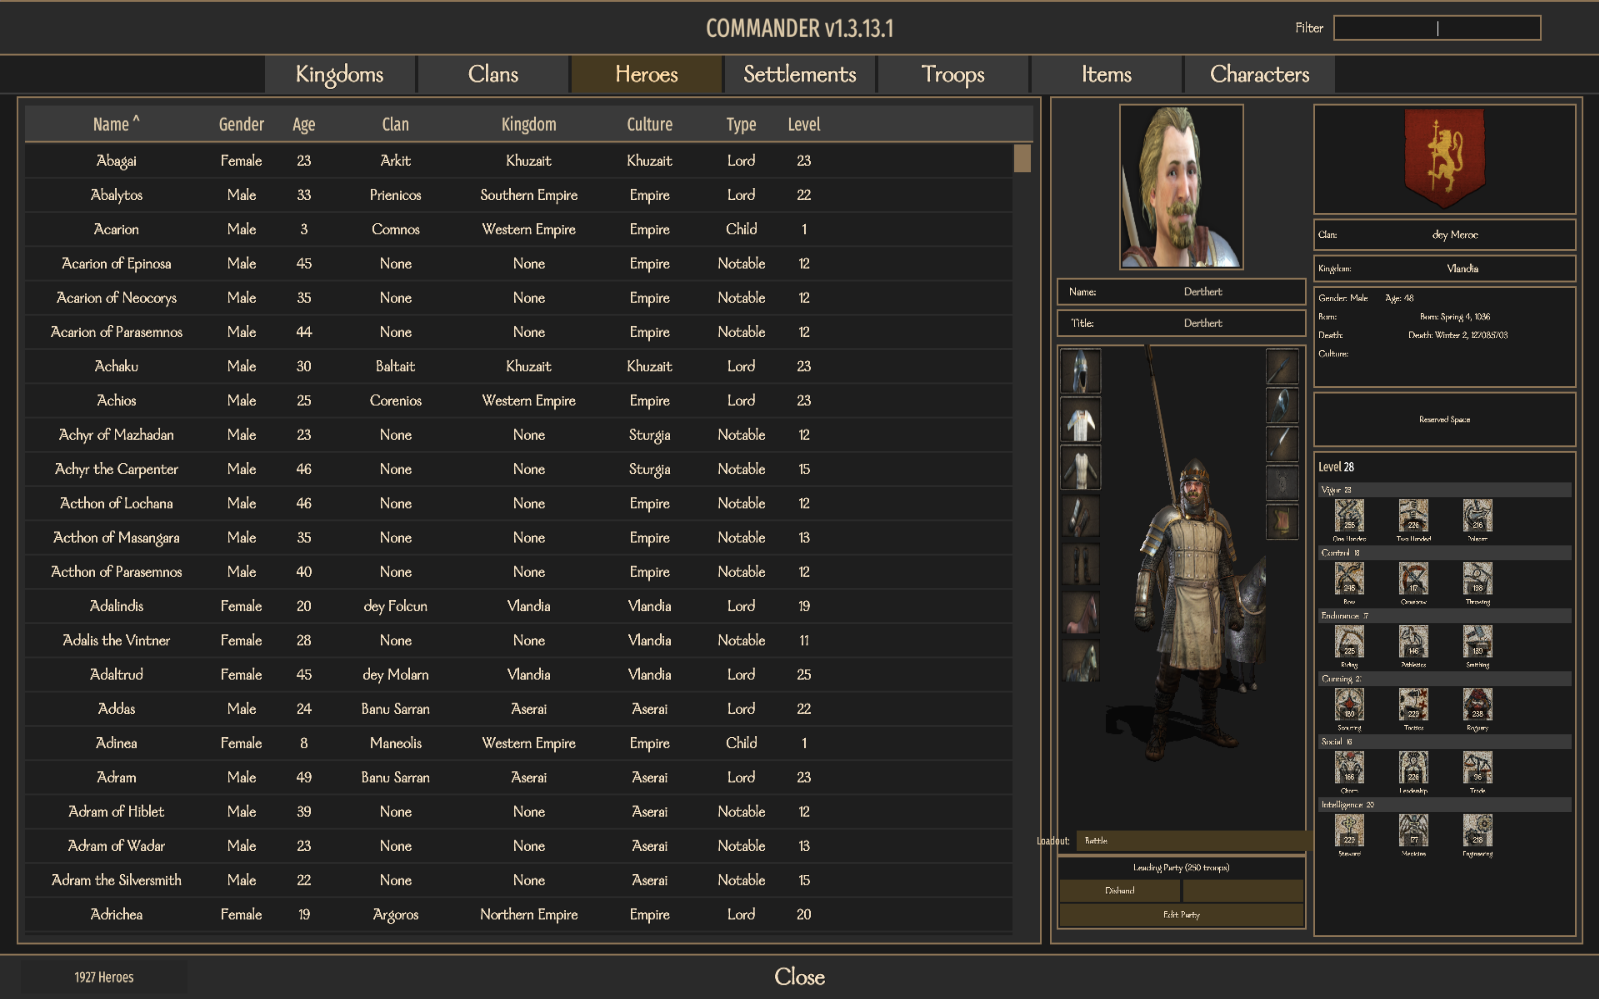
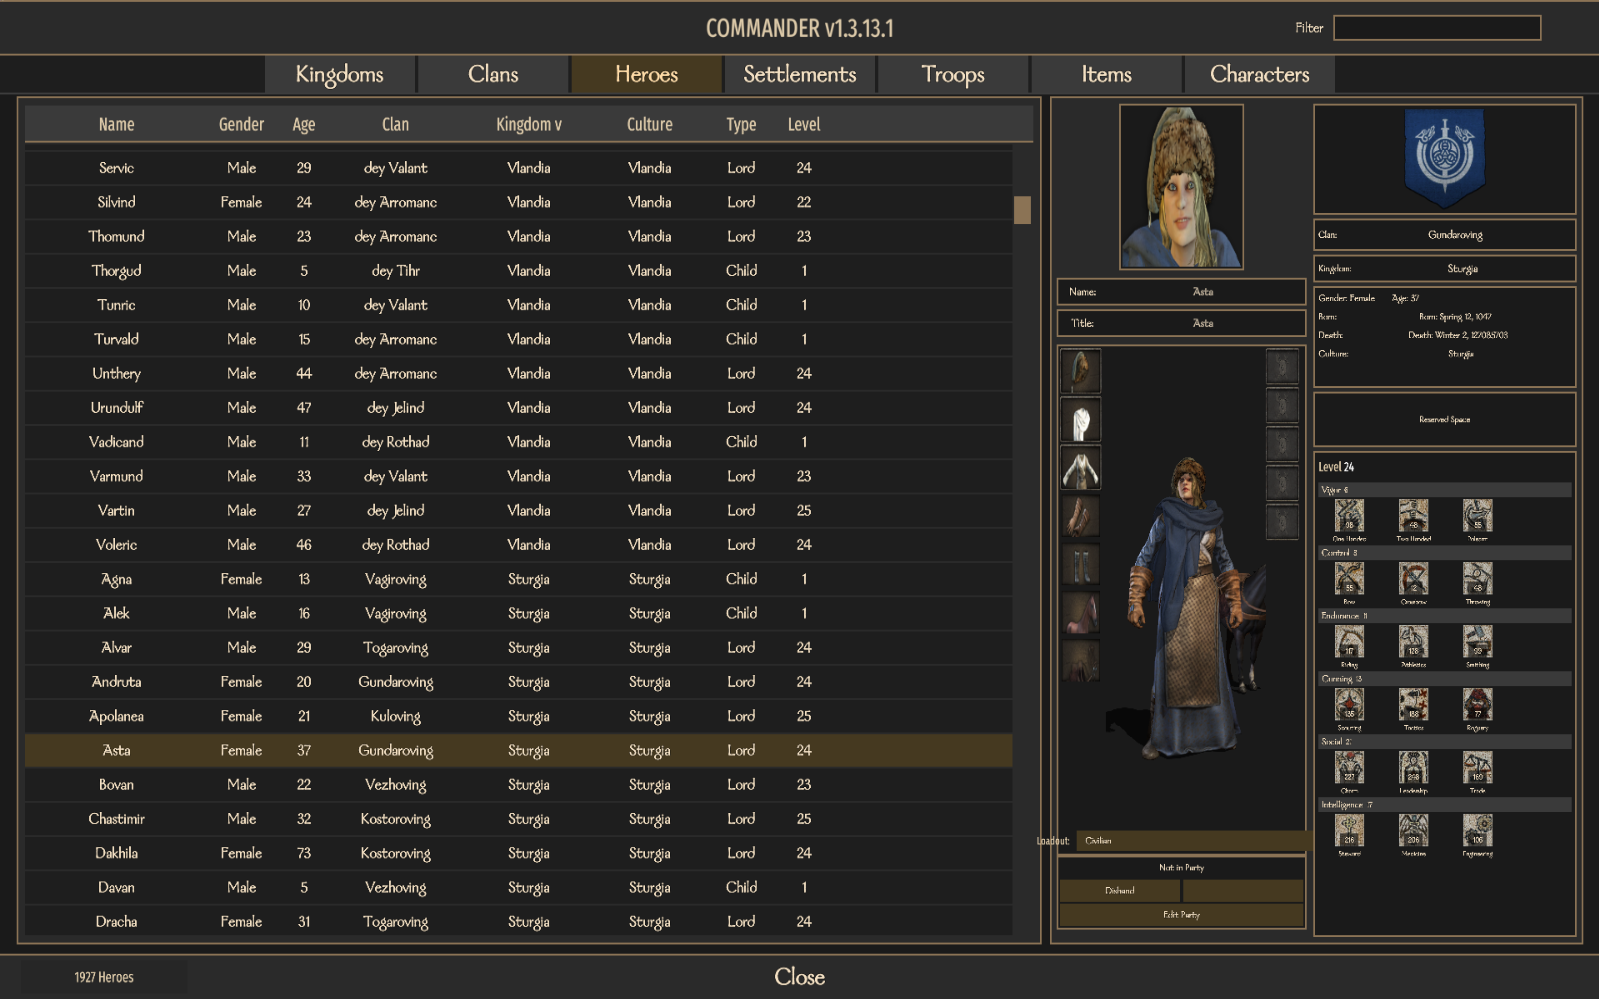
Fixed Kingdom Colors not showing on Character Model Clothes

diff --git a/Bannerlord.Commander/UI/ViewModels/HeroEditor/HeroCharacterVM.cs b/Bannerlord.Commander/UI/ViewModels/HeroEditor/HeroCharacterVM.cs
@@ -307,19 +307,26 @@ namespace Bannerlord.Commander.UI.ViewModels.HeroEditor
             Race = _hero.CharacterObject?.Race ?? 0;
             StanceIndex = 0; // Standing pose
             
-            // Get clan colors
-            if (_hero.Clan != null)
+            // Get faction colors (MapFaction returns Kingdom when clan is in one, otherwise the Clan itself)
+            if (_hero.MapFaction != null)
             {
-                ArmorColor1 = _hero.Clan.Color;
-                ArmorColor2 = _hero.Clan.Color2;
-                BannerCodeText = _hero.ClanBanner?.Serialize() ?? "";
+                ArmorColor1 = _hero.MapFaction.Color;
+                ArmorColor2 = _hero.MapFaction.Color2;
+            }
+            else if (_hero.CharacterObject?.Culture != null)
+            {
+                // Fallback to culture colors if no faction
+                ArmorColor1 = _hero.CharacterObject.Culture.Color;
+                ArmorColor2 = _hero.CharacterObject.Culture.Color2;
             }
             else
             {
                 ArmorColor1 = 0;
                 ArmorColor2 = 0;
-                BannerCodeText = "";
             }
+            
+            // Banner still comes from the clan (not the kingdom)
+            BannerCodeText = _hero.ClanBanner?.Serialize() ?? "";
             
             // Get mount creation key if hero has a horse
             // Note: MountCreationKey retrieval may require different approach based on game version
